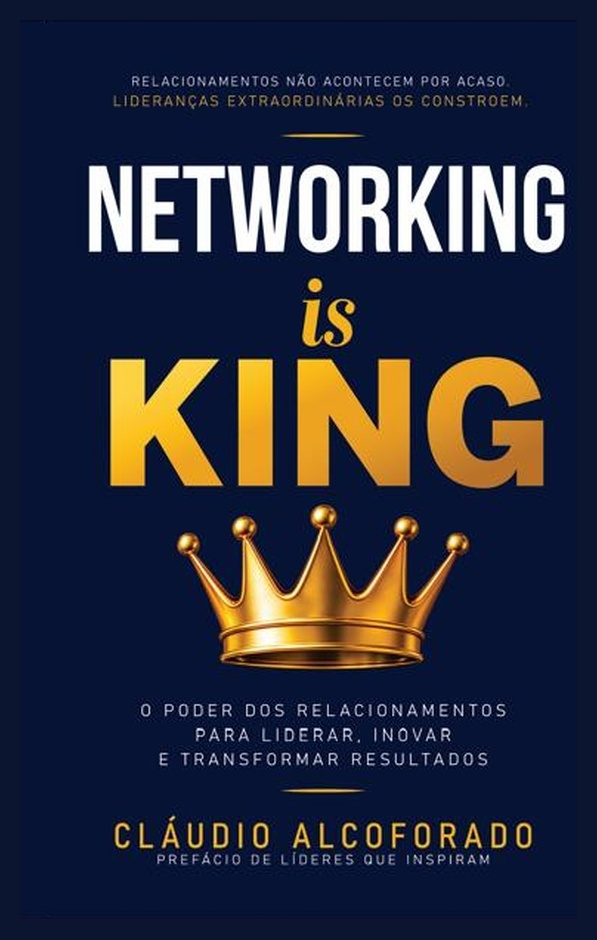
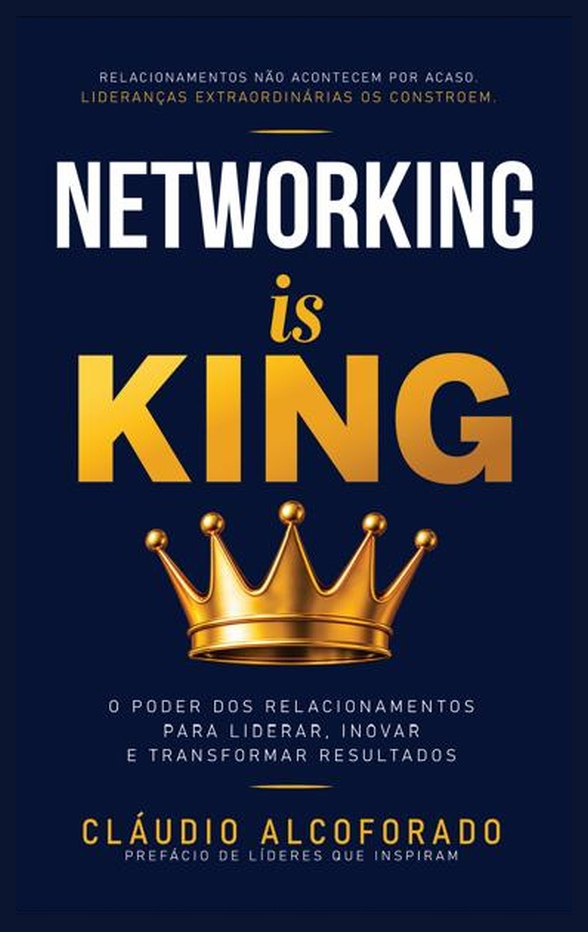
Capa: crop centrado no conteúdo, margens equilibradas
Recentra o crop em torno do meio do texto (x=865 no original),
dando ~57px de margem de cada lado. Padding navy 16px uniforme.
Imagem final 588x932px. Bump cache-bust para v=20261029.

Changed region(s): [[0.0918, 0.0622, 0.949, 0.7157], [0.1224, 0.7468, 0.9184, 0.9335], [0.2143, 0.809, 0.2449, 0.8401]]

diff --git a/assessment/index.html b/assessment/index.html
@@ -174,7 +174,7 @@
         </div>
 
         <div class="res-book-cta">
-          <img src="../img/book-cover.jpg?v=20261028" alt="Capa do livro Networking is KING" />
+          <img src="../img/book-cover.jpg?v=20261029" alt="Capa do livro Networking is KING" />
           <div>
             <p class="res-book-eyebrow">Quer aprimorar suas habilidades de networking?</p>
             <p class="res-book-text">No livro <em>Networking is KING</em>, Cláudio Alcoforado compartilha conhecimentos e estratégias para fortalecer suas conexões, ampliar sua influência e transformar relacionamentos em oportunidades.</p>

diff --git a/assessment.js b/assessment.js
@@ -95,7 +95,7 @@ function _loadImg(src) {
 
 async function preloadChartImages() {
   [_imgBookCover, _imgAuthor, _imgCrown] = await Promise.all([
-    _loadImg('../img/book-cover.jpg?v=20261028'),
+    _loadImg('../img/book-cover.jpg?v=20261029'),
     _loadImg('../img/author-claudio.png?v=20261028'),
     CROWN_SRC ? _loadImg(CROWN_SRC) : Promise.resolve(null)
   ]);

diff --git a/index.html b/index.html
@@ -64,7 +64,7 @@
 
       <div class="hero-book">
         <img
-          src="img/book-cover.jpg?v=20261028"
+          src="img/book-cover.jpg?v=20261029"
           alt="Capa do livro Networking is KING de Cláudio Alcoforado"
           class="book-cover-img"
         />
